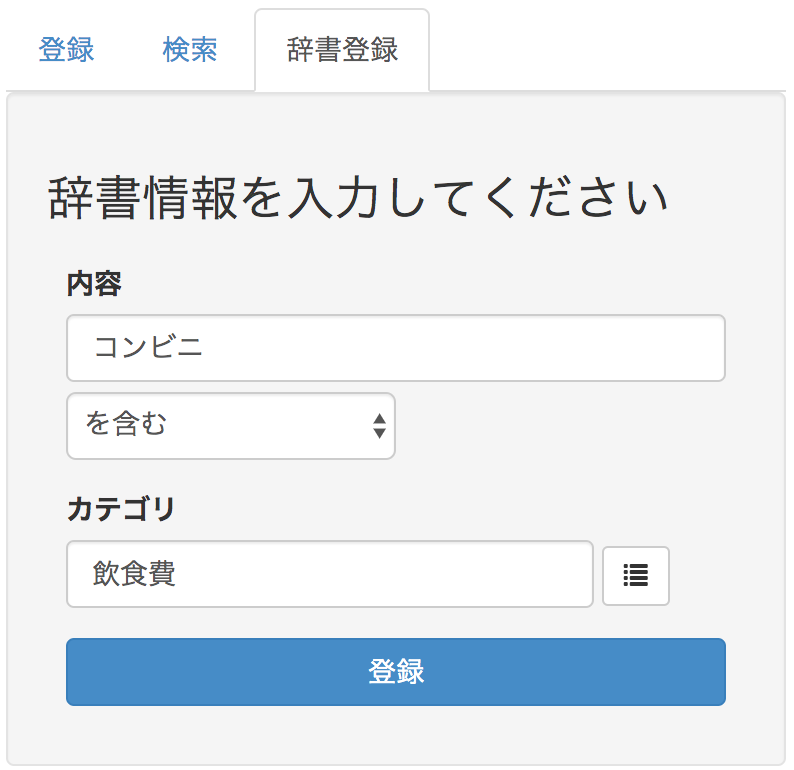
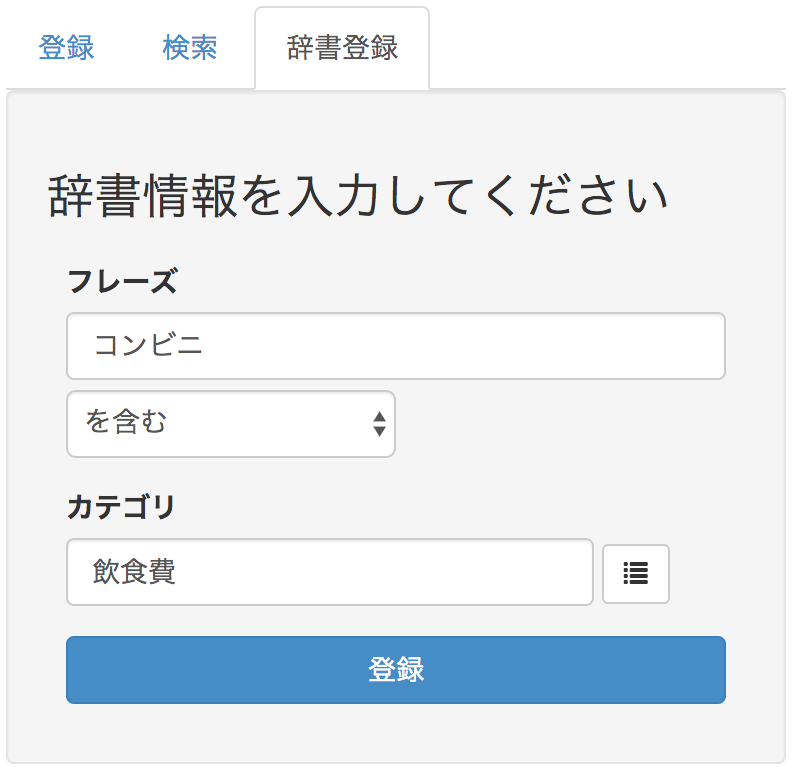
add ui spec

diff --git a/payment_manager/algieba/external.rst b/payment_manager/algieba/external.rst
@@ -29,10 +29,10 @@
    :header: "属性名", "型", "意味", "備考"
    :widths: 10, 20, 30, 40
 
-   "ID", "自然数(integer)", "収支情報にユニークに設定された値", "- 半角数字
+   "ID", "自然数", "収支情報にユニークに設定された値", "- 半角数字
    - システムによって自動的に付与される
    - 変更不可"
-   "種類", "文字列(string)", "収入, 支出を表す文字列", "- 以下のいずれか
+   "種類", "文字列", "収入, 支出を表す文字列", "- 以下のいずれか
 
      - income
      - expense"
@@ -72,11 +72,11 @@
    "ID", "自然数", "辞書情報にユニークに設定された値", "- 半角数字
    - システムによって自動的に付与される
    - 変更不可"
-   "内容", "文字列", "所持金の増減があった理由など", "- 任意の文字列"
+   "フレーズ", "文字列", "カテゴリを設定したいフレーズ", "- 任意の文字列"
    "条件", "文字列", "内容とカテゴリを紐付けるかどうかを決める条件", "- 以下のいずれか
 
-     - equal: 完全一致する内容にカテゴリを設定する
-     - include: 部分一致する内容にカテゴリを設定する"
+     - equal: 完全一致するフレーズにカテゴリを設定する
+     - include: 部分一致するフレーズにカテゴリを設定する"
    "カテゴリ", ":ref:`alg-ext-res-category` の配列", "カテゴリリソースの名前",
 
 .. _alg-ext-ui:
@@ -86,7 +86,7 @@
 
 利用者はブラウザから収支の登録や確認、統計情報の確認を行うことができる
 
-- 収支の登録や確認は管理画面で行う
+- 収支の登録や検索，辞書の登録は管理画面で行う
 - 統計情報の確認は統計画面で行う
 
 管理画面
@@ -97,9 +97,9 @@
    :scale: 35
 
 - 画面の上部に管理画面と統計画面へのリンクが表示される
-- 画面の左側には収支情報の登録，検索フォームが表示される
+- 画面の左側には収支情報の登録や検索，辞書情報の登録フォームが表示される
 
-  - タブでフォームを切り替えることができ，初期状態では登録フォームが表示される
+  - タブでフォームを切り替えることができ，初期状態では収支情報の登録フォームが表示される
 
 - 画面の右側には収支情報の一覧が表示される
 
@@ -174,6 +174,19 @@
   - どちらかを指定しなければ，それ以上，または以下の収支情報を全て取得する
 
 - 種類選択フォームでは「収支」，「支出」を選択して特定の種類の収支情報のみを取得する
+
+辞書登録フォーム仕様
+""""""""""""""""""""
+
+.. image:: images/management_create_dictionary.png
+   :alt: 辞書登録フォーム
+   :scale: 50
+
+- フレーズとカテゴリを入力して登録ボタンを押下すると，入力したフレーズとカテゴリで辞書が登録される
+- フレーズ入力フォームではフレーズを指定する
+
+  - 「を含む」を選択すると，入力したフレーズを含む内容を入力した場合に指定したカテゴリを設定する
+  - 「と一致する」を選択すると，入力したフレーズと一致する内容を入力した場合に指定したカテゴリを設定する
 
 収支情報一覧画面仕様
 """"""""""""""""""""
